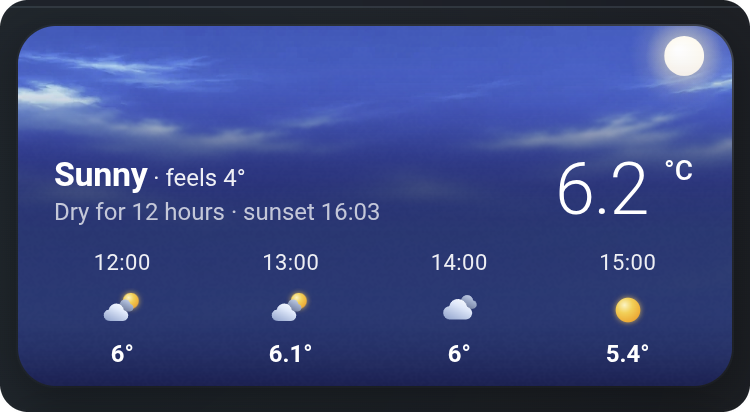
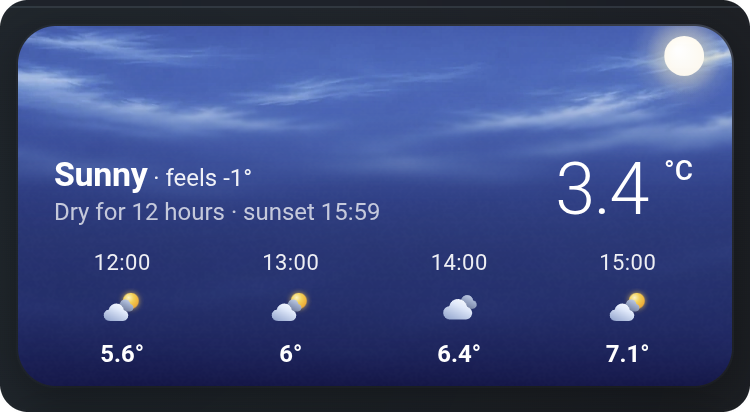
Update weather cards and documentation.

diff --git a/dist/lamplight.js b/dist/lamplight.js
@@ -1,4 +1,4 @@
-/* Lamplight Cards 0.153.0-dev
+/* Lamplight Cards 0.155.0-dev
    Built from src/. Do not edit this file; edit src/ and run build.sh. */
 (function () {
 'use strict';
@@ -4247,7 +4247,7 @@ function lampSkyBuild(root, cond, el, o, W, H) {
 // deeper glass foot of 0.128.0-dev (below).
 //
 // THE GLASS (0.120.0-dev): option 8 "One Smooth Curve" of design-docs/weather_glass_options.html,
-// chosen by the household on 16 November 2026. The plates-2 files are 1536 x 960, so the plate
+// chosen by the household on 16 November 2026. The plate files are 1536 x 960, so the plate
 // covers the card. The tint is thick only where the words need it: for each text role, the card
 // finds the least tint that gives its floor + 0.05 on the brightest pixels of the plate behind it
 // (lampPlateGlass). Each role gets a soft ramp from y 36 to the top of its box. The tint is the
@@ -4264,9 +4264,14 @@ function lampSkyBuild(root, cond, el, o, W, H) {
 // with the larger weight is the base. The other plate lies on top at w2 / (w1 + w2).
 // The ground counts as sky for Law 05.2.
 
-const LAMP_PLATE_SET = 'plates-2';
+// plates-3 (0.155.0-dev, 27 November 2026): new fair and clear plates (day, golden, twilight) with a deep
+// lower sky, made by the household from design-docs/weather_plates/plates3_brief.md. On the old plates
+// the sky was light under the words, so the glass was thick (0.6 to 0.76) on a partly cloudy or sunny day.
+// Now it is at or near its minimum. The other 22 files are the plates-2 files (tools/plates3_build.py).
+// The room window sheets show the same plates through their glass, by the household's choice.
+const LAMP_PLATE_SET = 'plates-3';
 // The horizon row, as a share of the plate's width: the 80% row of the 1536 x 512 plates-1 files.
-// It places the 1536 x 960 plates-2 files in the same way.
+// It places the 1536 x 960 plates-2 and plates-3 files in the same way.
 const LAMP_PLATE_ROW = 0.8 * 512 / 1536;
 // The glass (option 8). blur: px; steps: [share of the blur, mask from y, mask to y]; y0: where
 // each role's ramp starts; min, minTo: the least tint and where the minimum ramp ends; sig: the
@@ -18616,5 +18621,5 @@ function lampApplyTheme(el, config) {
   Card.prototype._lampThemeHook = true;
 });
 
-console.info('%c LAMPLIGHT %c 0.153.0-dev ', 'background:#231a12;color:#ffb35c;border-radius:3px 0 0 3px', 'background:#ffb35c;color:#231a12;border-radius:0 3px 3px 0');
+console.info('%c LAMPLIGHT %c 0.155.0-dev ', 'background:#231a12;color:#ffb35c;border-radius:3px 0 0 3px', 'background:#ffb35c;color:#231a12;border-radius:0 3px 3px 0');
 })();

diff --git a/src/68b-plates.js b/src/68b-plates.js
@@ -22,7 +22,7 @@
 // deeper glass foot of 0.128.0-dev (below).
 //
 // THE GLASS (0.120.0-dev): option 8 "One Smooth Curve" of design-docs/weather_glass_options.html,
-// chosen by the household on 16 November 2026. The plates-2 files are 1536 x 960, so the plate
+// chosen by the household on 16 November 2026. The plate files are 1536 x 960, so the plate
 // covers the card. The tint is thick only where the words need it: for each text role, the card
 // finds the least tint that gives its floor + 0.05 on the brightest pixels of the plate behind it
 // (lampPlateGlass). Each role gets a soft ramp from y 36 to the top of its box. The tint is the
@@ -39,9 +39,14 @@
 // with the larger weight is the base. The other plate lies on top at w2 / (w1 + w2).
 // The ground counts as sky for Law 05.2.
 
-const LAMP_PLATE_SET = 'plates-2';
+// plates-3 (0.155.0-dev, 27 November 2026): new fair and clear plates (day, golden, twilight) with a deep
+// lower sky, made by the household from design-docs/weather_plates/plates3_brief.md. On the old plates
+// the sky was light under the words, so the glass was thick (0.6 to 0.76) on a partly cloudy or sunny day.
+// Now it is at or near its minimum. The other 22 files are the plates-2 files (tools/plates3_build.py).
+// The room window sheets show the same plates through their glass, by the household's choice.
+const LAMP_PLATE_SET = 'plates-3';
 // The horizon row, as a share of the plate's width: the 80% row of the 1536 x 512 plates-1 files.
-// It places the 1536 x 960 plates-2 files in the same way.
+// It places the 1536 x 960 plates-2 and plates-3 files in the same way.
 const LAMP_PLATE_ROW = 0.8 * 512 / 1536;
 // The glass (option 8). blur: px; steps: [share of the blur, mask from y, mask to y]; y0: where
 // each role's ramp starts; min, minTo: the least tint and where the minimum ramp ends; sig: the
